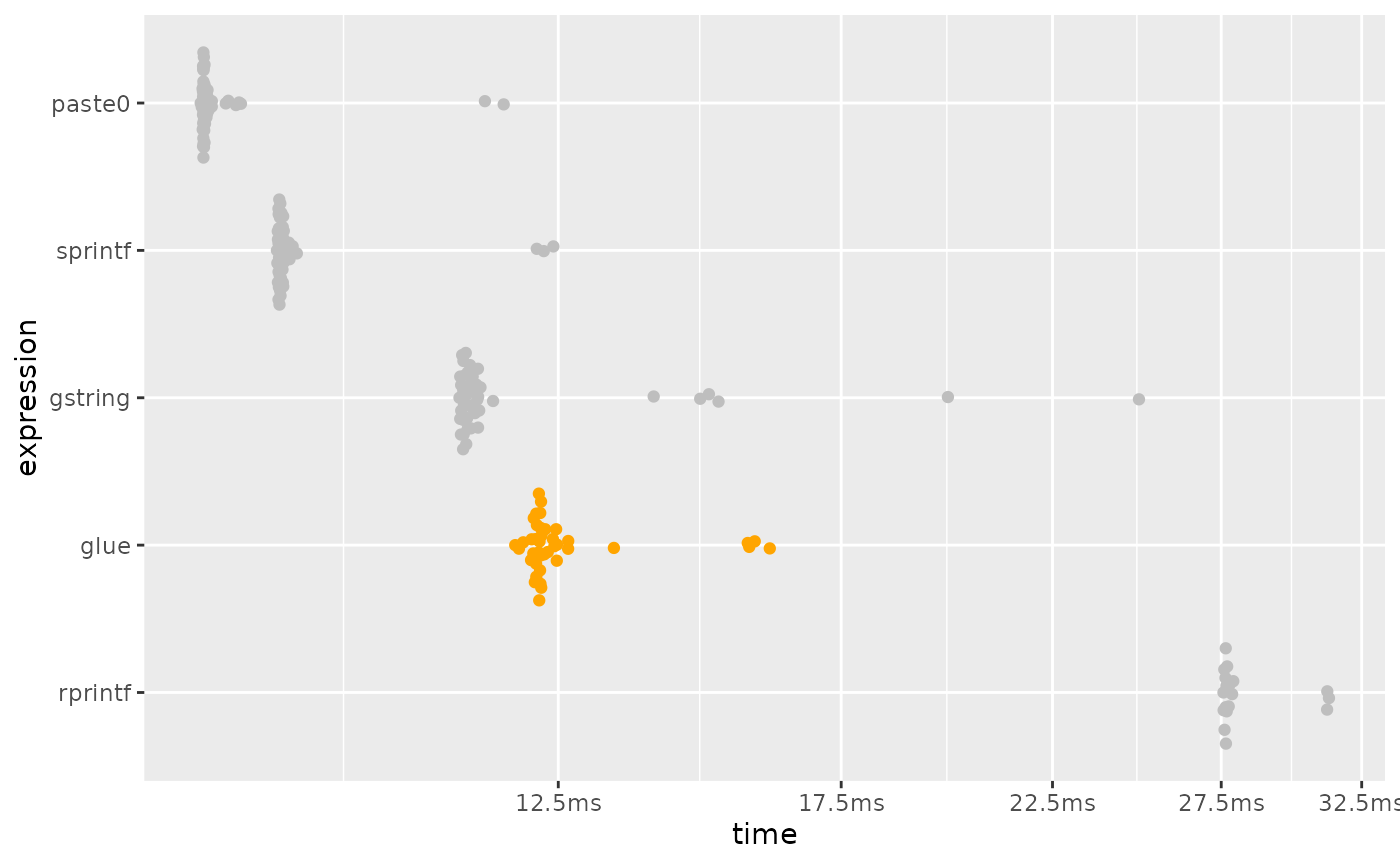
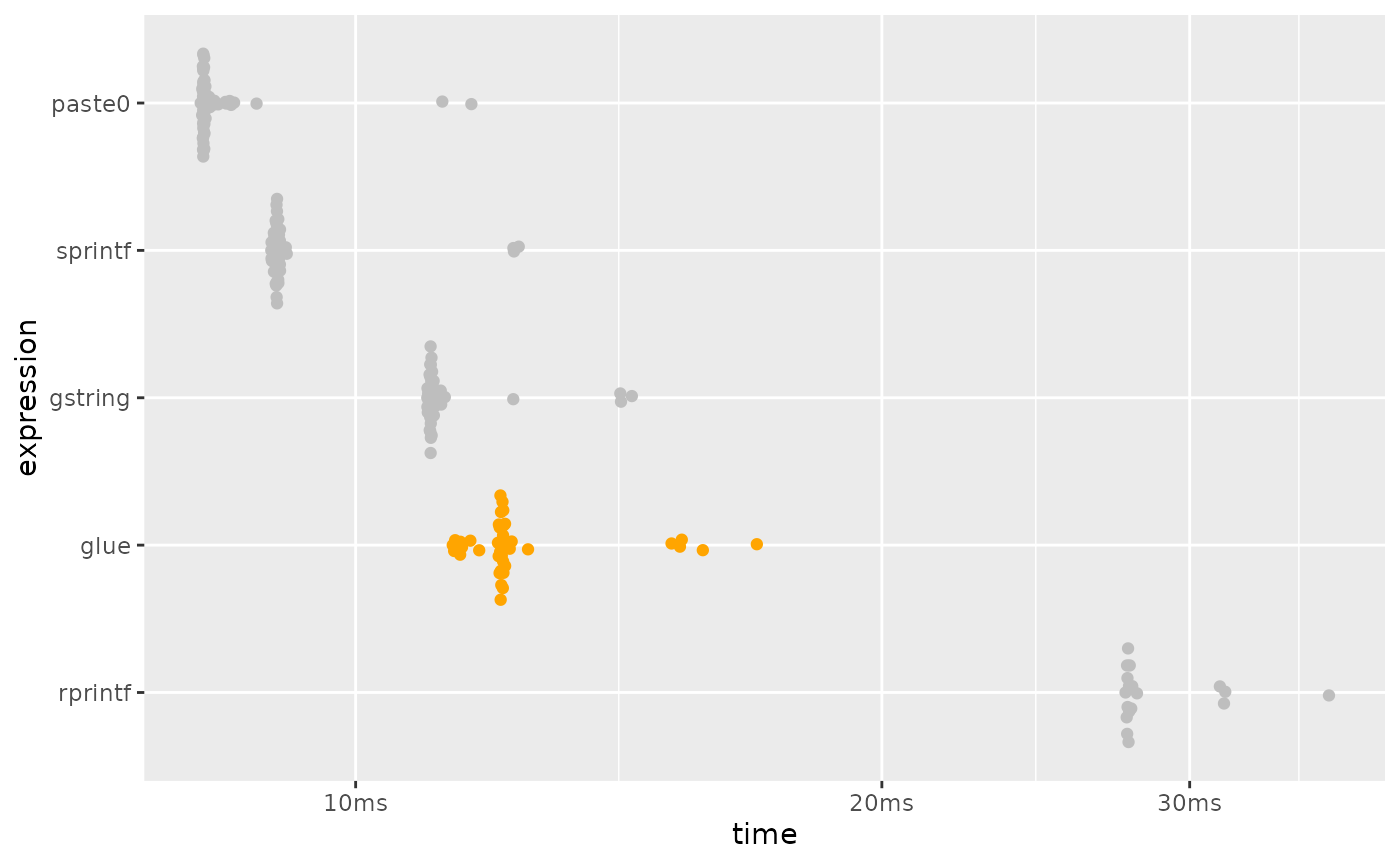
Deploying to gh-pages from @ tidyverse/glue@81bd4787fbf6f7e6a15c0317ff7bdd12fd842d0d 🚀

diff --git a/dev/articles/speed.html b/dev/articles/speed.html
@@ -152,11 +152,11 @@ this benchmark, but is now formally marked as “superseded”, in favor of
 <span><span class="co">#&gt; <span style="color: #949494;"># A tibble: 5 × 6</span></span></span>
 <span><span class="co">#&gt;   expression      min   median `itr/sec` mem_alloc `gc/sec`</span></span>
 <span><span class="co">#&gt;   <span style="color: #949494; font-style: italic;">&lt;bch:expr&gt;</span> <span style="color: #949494; font-style: italic;">&lt;bch:tm&gt;</span> <span style="color: #949494; font-style: italic;">&lt;bch:tm&gt;</span>     <span style="color: #949494; font-style: italic;">&lt;dbl&gt;</span> <span style="color: #949494; font-style: italic;">&lt;bch:byt&gt;</span>    <span style="color: #949494; font-style: italic;">&lt;dbl&gt;</span></span></span>
-<span><span class="co">#&gt; <span style="color: #BCBCBC;">1</span> sprintf    752.16ns 871.02ns  1<span style="text-decoration: underline;">092</span>018.        0B     0   </span></span>
-<span><span class="co">#&gt; <span style="color: #BCBCBC;">2</span> paste0       1.55µs   1.69µs   <span style="text-decoration: underline;">569</span>737.        0B     0   </span></span>
-<span><span class="co">#&gt; <span style="color: #BCBCBC;">3</span> glue       102.33µs 109.53µs     <span style="text-decoration: underline;">8</span>617.  140.44KB    22.7 </span></span>
-<span><span class="co">#&gt; <span style="color: #BCBCBC;">4</span> gstring    224.09µs 232.52µs     <span style="text-decoration: underline;">4</span>199.    2.45MB    16.9 </span></span>
-<span><span class="co">#&gt; <span style="color: #BCBCBC;">5</span> rprintf    276.22µs 285.08µs     <span style="text-decoration: underline;">3</span>441.  503.39KB     8.23</span></span>
+<span><span class="co">#&gt; <span style="color: #BCBCBC;">1</span> sprintf    761.12ns 862.05ns  1<span style="text-decoration: underline;">094</span>596.        0B   109.  </span></span>
+<span><span class="co">#&gt; <span style="color: #BCBCBC;">2</span> paste0       1.55µs   1.66µs   <span style="text-decoration: underline;">578</span>903.        0B     0   </span></span>
+<span><span class="co">#&gt; <span style="color: #BCBCBC;">3</span> glue       100.33µs 105.89µs     <span style="text-decoration: underline;">9</span>294.  140.44KB    24.5 </span></span>
+<span><span class="co">#&gt; <span style="color: #BCBCBC;">4</span> gstring    218.45µs 227.01µs     <span style="text-decoration: underline;">4</span>328.    2.45MB    16.8 </span></span>
+<span><span class="co">#&gt; <span style="color: #BCBCBC;">5</span> rprintf     275.5µs 281.66µs     <span style="text-decoration: underline;">3</span>503.  503.39KB     8.20</span></span>
 <span></span>
 <span><span class="co"># plotting function defined in a hidden chunk</span></span>
 <span><span class="fu">plot_comparison</span><span class="op">(</span><span class="va">simple</span><span class="op">)</span></span>
@@ -205,11 +205,11 @@ performance is much closer to that of <code><a href="https://rdrr.io/r/base/past
 <span><span class="co">#&gt; <span style="color: #949494;"># A tibble: 5 × 6</span></span></span>
 <span><span class="co">#&gt;   expression      min   median `itr/sec` mem_alloc `gc/sec`</span></span>
 <span><span class="co">#&gt;   <span style="color: #949494; font-style: italic;">&lt;bch:expr&gt;</span> <span style="color: #949494; font-style: italic;">&lt;bch:tm&gt;</span> <span style="color: #949494; font-style: italic;">&lt;bch:tm&gt;</span>     <span style="color: #949494; font-style: italic;">&lt;dbl&gt;</span> <span style="color: #949494; font-style: italic;">&lt;bch:byt&gt;</span>    <span style="color: #949494; font-style: italic;">&lt;dbl&gt;</span></span></span>
-<span><span class="co">#&gt; <span style="color: #BCBCBC;">1</span> paste0       8.17ms   8.21ms     121.    781.3KB     4.19</span></span>
-<span><span class="co">#&gt; <span style="color: #BCBCBC;">2</span> sprintf      8.95ms   8.98ms     111.    781.3KB     6.41</span></span>
-<span><span class="co">#&gt; <span style="color: #BCBCBC;">3</span> gstring     11.11ms  11.22ms      84.1    1.53MB     6.47</span></span>
-<span><span class="co">#&gt; <span style="color: #BCBCBC;">4</span> glue        11.88ms  12.23ms      81.4    2.29MB     9.05</span></span>
-<span><span class="co">#&gt; <span style="color: #BCBCBC;">5</span> rprintf     27.57ms  27.65ms      36.1    3.05MB     7.22</span></span>
+<span><span class="co">#&gt; <span style="color: #BCBCBC;">1</span> paste0       8.15ms   8.19ms     121.    781.3KB     4.19</span></span>
+<span><span class="co">#&gt; <span style="color: #BCBCBC;">2</span> sprintf      8.95ms   9.02ms     111.    781.3KB     6.40</span></span>
+<span><span class="co">#&gt; <span style="color: #BCBCBC;">3</span> gstring     10.99ms  11.05ms      90.2    1.53MB     6.44</span></span>
+<span><span class="co">#&gt; <span style="color: #BCBCBC;">4</span> glue        11.36ms  12.11ms      82.4    2.29MB     8.91</span></span>
+<span><span class="co">#&gt; <span style="color: #BCBCBC;">5</span> rprintf     27.57ms  27.68ms      35.4    3.05MB     7.08</span></span>
 <span></span>
 <span><span class="co"># plotting function defined in a hidden chunk</span></span>
 <span><span class="fu">plot_comparison</span><span class="op">(</span><span class="va">vectorized</span><span class="op">)</span></span></code></pre></div>
